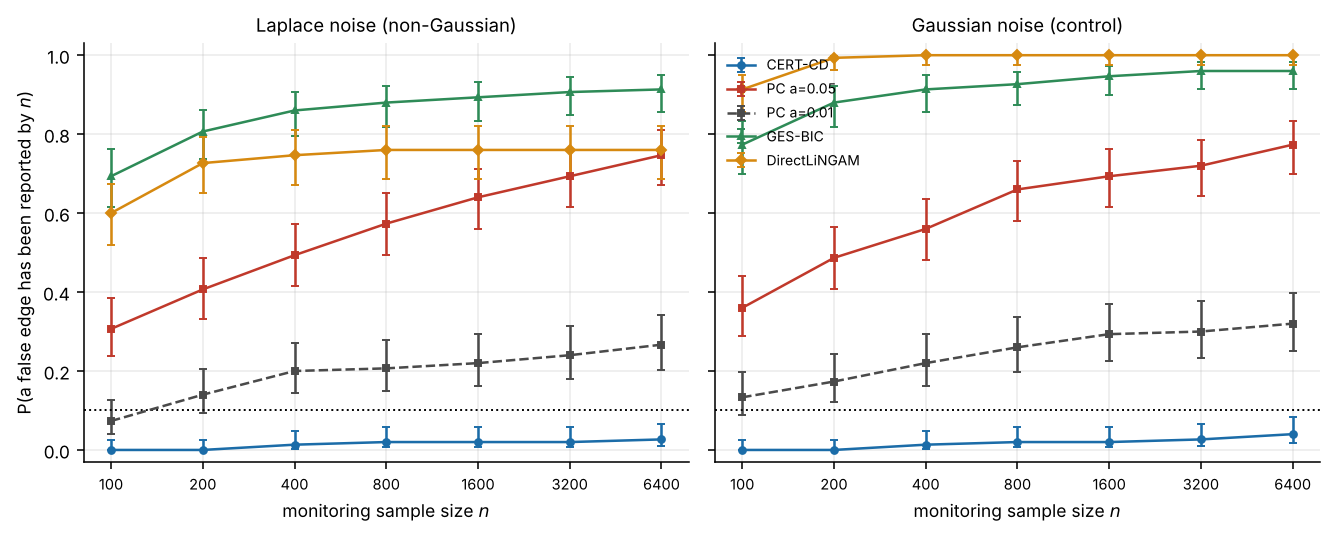
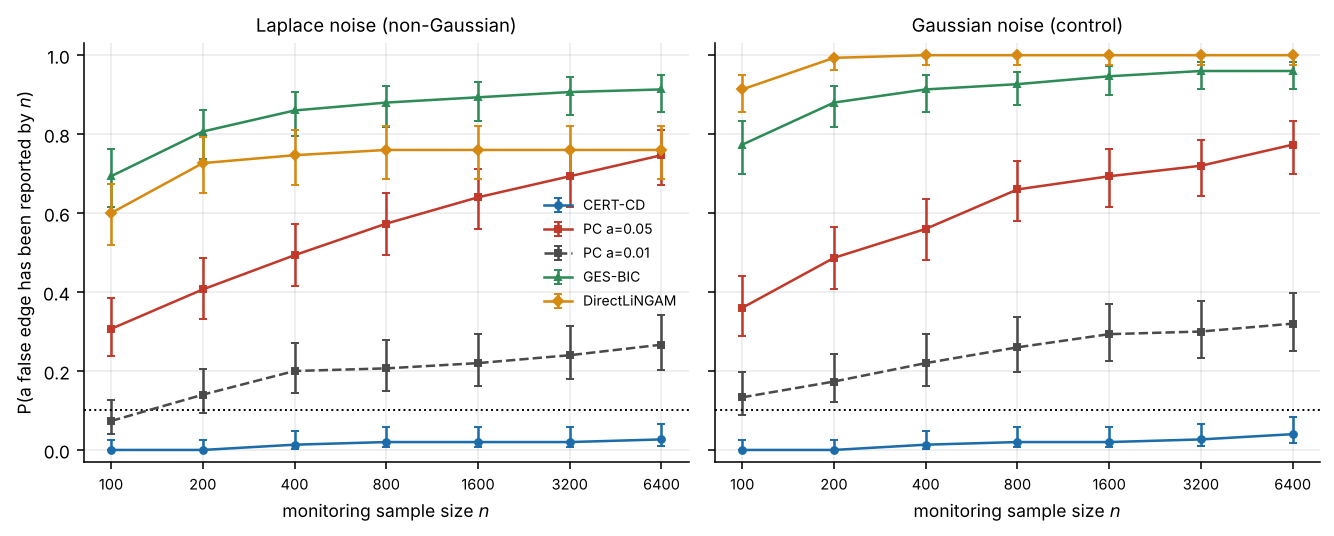
Move legend in exp13 figure

diff --git a/experiments/exp13_monitoring_fwer.py b/experiments/exp13_monitoring_fwer.py
@@ -376,7 +376,7 @@ def make_figure(summaries: dict):
         ax.set_ylim(-0.03, 1.03)
         ax.axhline(0.1, color="k", ls=":", lw=1)
     axes[0].set_ylabel("P(a false edge has been reported by $n$)")
-    axes[1].legend(fontsize=7.2, loc="upper left")
+    axes[0].legend(fontsize=7.2, loc="center right")
     fig.tight_layout()
     return fig
 
